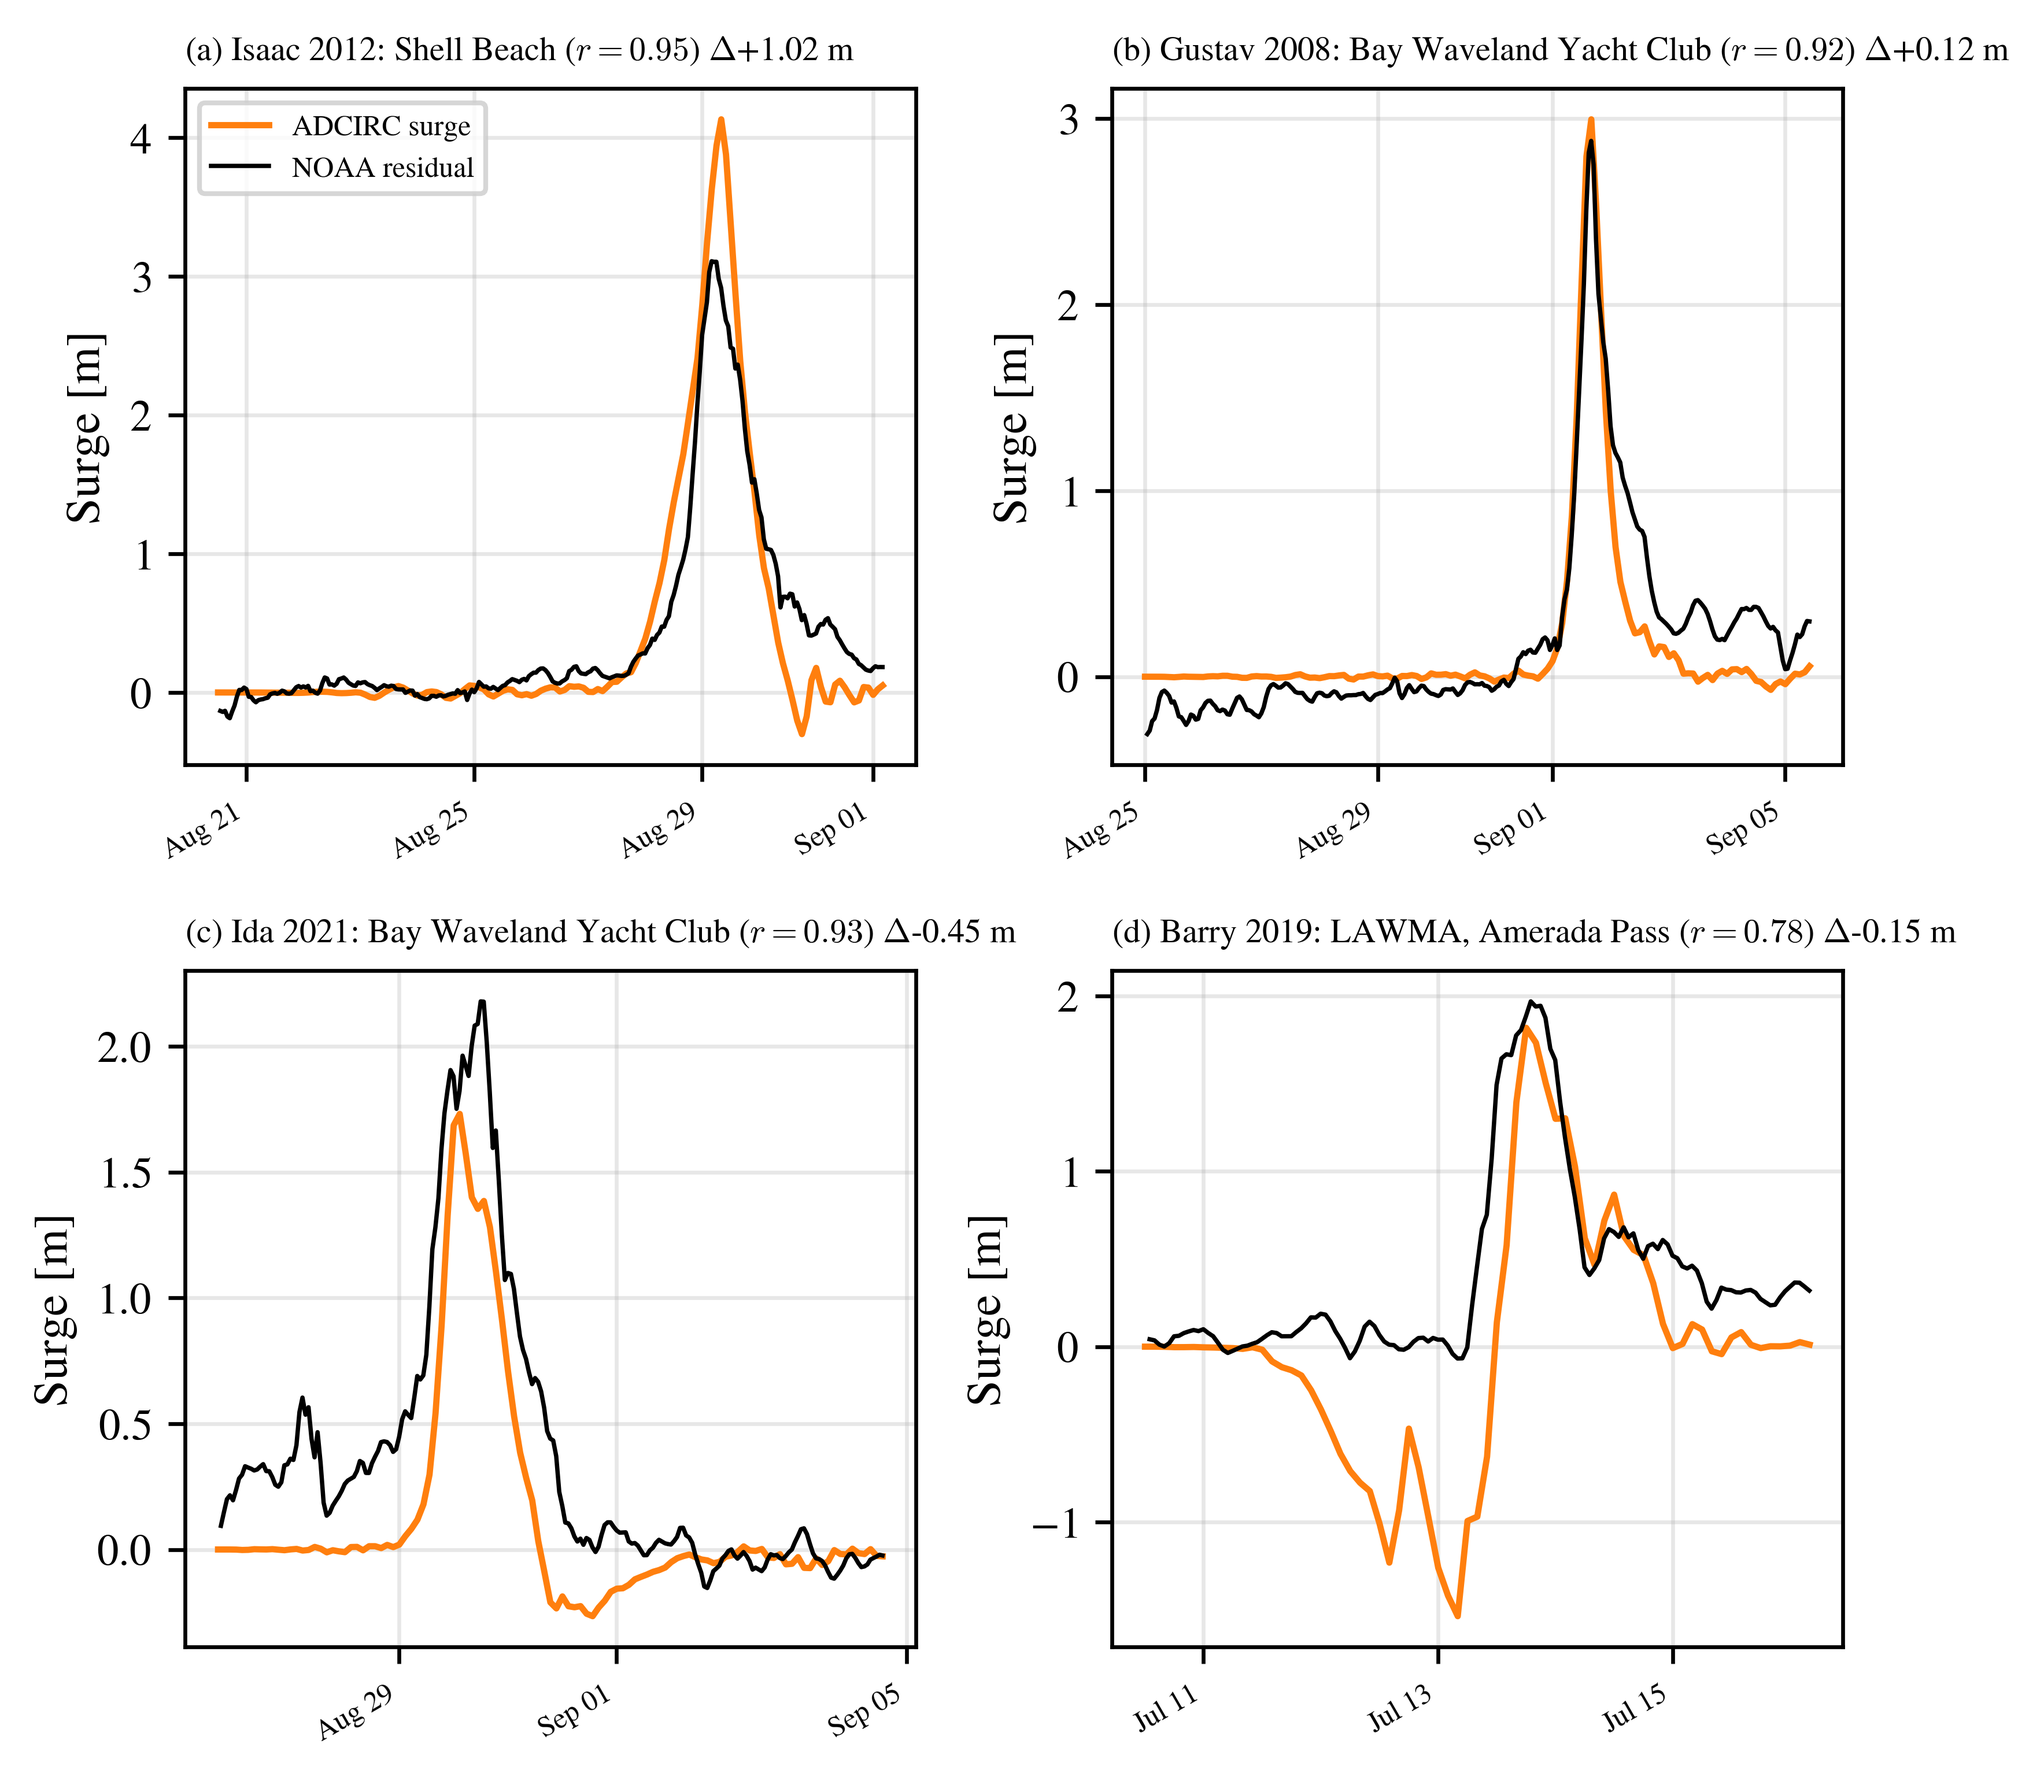
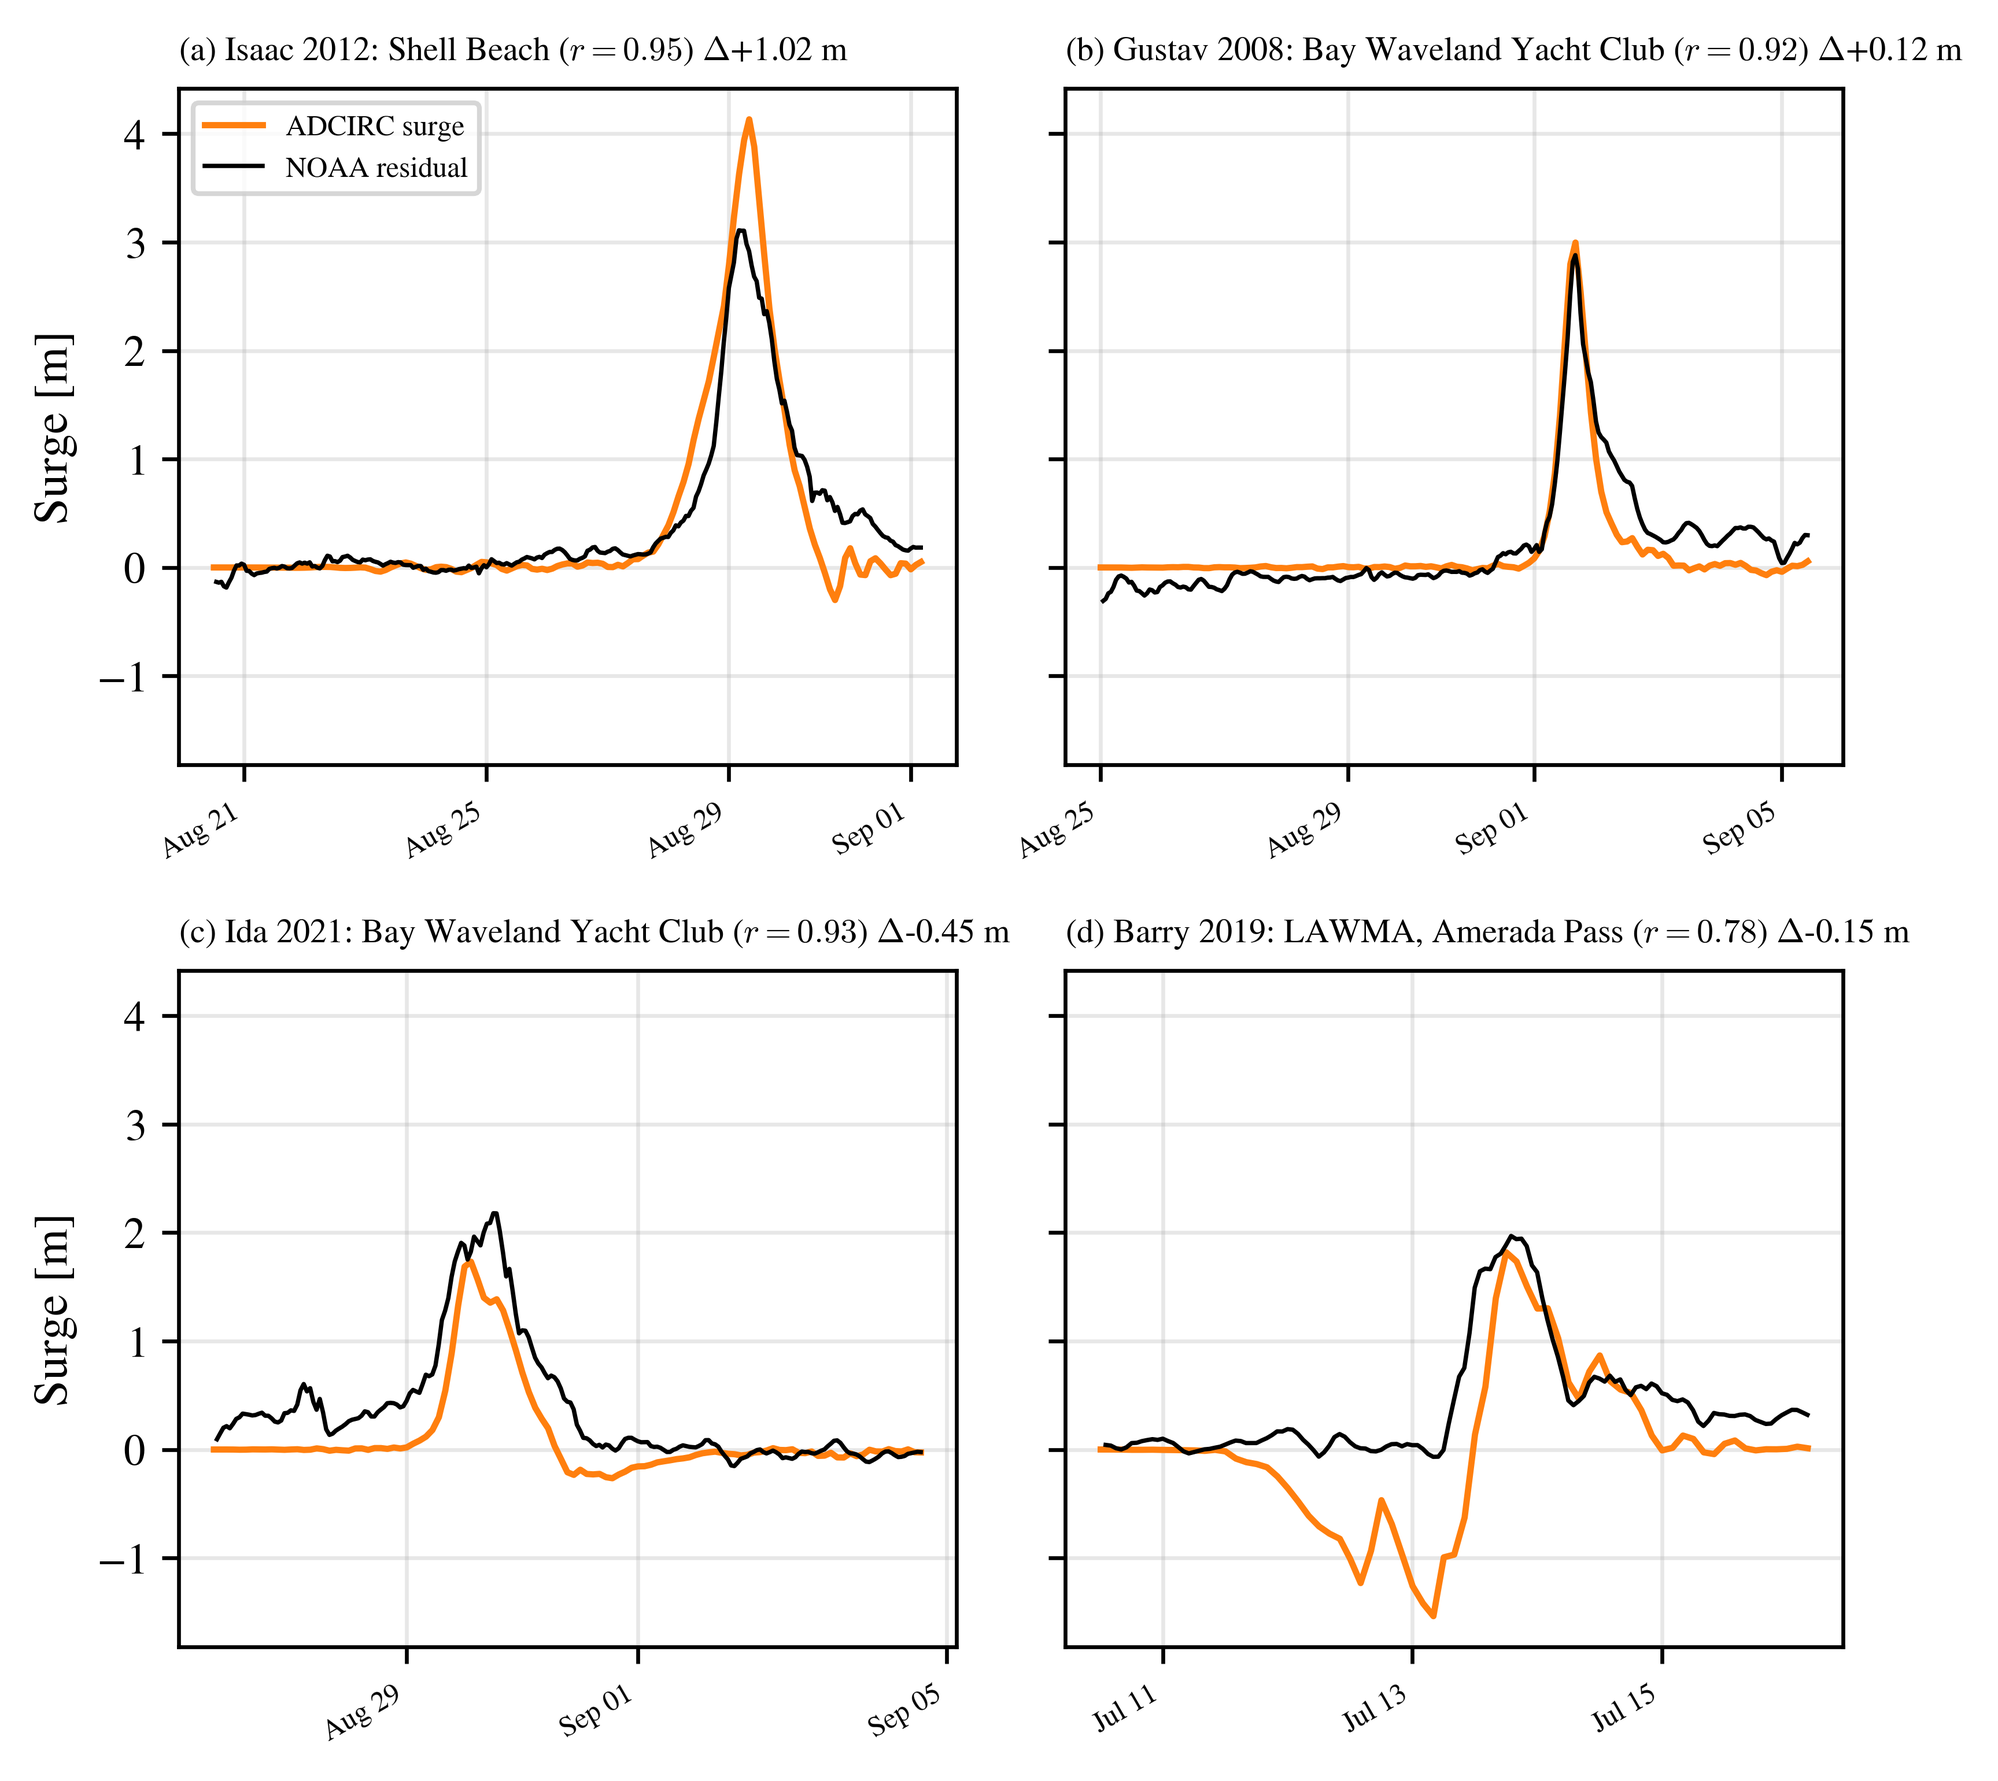
improving eval figures

diff --git a/adforce/eval/validate.py b/adforce/eval/validate.py
@@ -395,9 +395,16 @@ def _setup_plt():
 
 def _savefig(fig, paths: List[str]) -> None:
     """Save one figure to several paths (e.g. a quick-look PNG and a paper PDF).
+    Every ``.png`` quick-look also gets a vector ``.pdf`` sibling beside it in
+    the repo, in addition to any thesis-tree copy already in ``paths``.
     Figures are sized via sithom.get_dim to the LaTeX text width, so they are
     included at width=\\linewidth with no rescaling (and thus no font-size drift)."""
+    all_paths = []
     for p in paths:
+        all_paths.append(p)
+        if p.endswith(".png") and p[:-4] + ".pdf" not in paths:
+            all_paths.append(p[:-4] + ".pdf")
+    for p in all_paths:
         fig.savefig(p, bbox_inches="tight")
         print(f"wrote {p}")
 
@@ -456,12 +463,15 @@ def plot_examples(
     ncol: int = 2,
     refresh: bool = False,
     extra_titles: Optional[Dict[Tuple[str, str], str]] = None,
+    sharey: bool = True,
 ) -> None:
     """Plot simulated surge vs de-tided observed residual for chosen (storm, gauge).
 
     ``panels`` is a list of ``(storm, gauge_name)`` tuples. The per-storm series are
     loaded from the time-series cache (:func:`load_storm_series`), so regenerating this
     figure is instant once the cache exists; pass ``refresh=True`` to rebuild it.
+    ``sharey`` (default) puts every panel on one y scale so amplitudes compare
+    across panels; disable via ``validate.sharey=false`` for detail views.
     """
     plt = _setup_plt()
     import matplotlib.dates as mdates
@@ -470,7 +480,9 @@ def plot_examples(
     cache: Dict[str, Dict[str, tuple]] = {}
     nrow = int(np.ceil(len(panels) / ncol))
     # taller (ratio ~1) for the stacked rows; wider 2-col panels give the date axis room.
-    fig, axes = plt.subplots(nrow, ncol, figsize=get_dim(ratio=0.95), squeeze=False)
+    fig, axes = plt.subplots(
+        nrow, ncol, figsize=get_dim(ratio=0.95), squeeze=False, sharey=sharey
+    )
     extra_titles = extra_titles or {}
     for i, (ax, (storm, gname)) in enumerate(zip(axes.ravel(), panels)):
         letter = f"({chr(97 + i)}) "  # panel id in the (left) title -> no label clash
@@ -495,7 +507,8 @@ def plot_examples(
         rtxt += extra_titles.get((storm, gname), "")
         gauge = match[0][:24].rstrip(", ")  # trim long names without a dangling comma
         ax.set_title(f"{letter}{storm}: {gauge}{rtxt}", fontsize=7, loc="left")
-        ax.set_ylabel("Surge [m]")
+        if not sharey or i % ncol == 0:  # shared scale: label the left column only
+            ax.set_ylabel("Surge [m]")
         ax.grid(alpha=0.3)
         # few, short date ticks ("Aug 24") instead of ~10 crowded "2005-08-24" labels
         ax.xaxis.set_major_locator(mdates.AutoDateLocator(minticks=3, maxticks=5))
@@ -1197,6 +1210,7 @@ def main(cfg: DictConfig) -> None:
                 os.path.join(C.PAPER_IMG_PATH, "comp_val_examples.pdf"),
             ],
             refresh=v.refresh,
+            sharey=v.sharey,
         )
         return
     run(list(cfg.storms) if cfg.storms else None)

diff --git a/tests/test_eval.py b/tests/test_eval.py
@@ -282,7 +282,7 @@ def test_regression_headline_numbers():
     # (regional bias -0.36 m), moving the pooled numbers from
     # bias -0.20 -> -0.22, r 0.885 -> 0.87.
     bias, rmse, r = metrics(clean)
-    assert len(clean) == 146
+    assert len(clean) == 147  # 146 + Katrina/Virginia Key (coast-to-coast Katrina, 2026-08)
     assert bias == pytest.approx(-0.22, abs=0.02)
     assert rmse == pytest.approx(0.50, abs=0.02)
     assert r == pytest.approx(0.871, abs=0.01)
@@ -301,7 +301,7 @@ def test_regression_per_storm_counts():
     # (regenerated 2026-07-05 with the fixed utide de-tiding)
     assert counts["Delta 2020"] == 21
     assert counts["Nicholas 2021"] == 10
-    assert counts["Katrina 2005"] == 4
+    assert counts["Katrina 2005"] == 5  # + Virginia Key (coast-to-coast Katrina)
 
 
 # --------------------------------------------------------------------------- #
@@ -474,13 +474,13 @@ def test_regression_population_and_methods():
     df["sid"] = df["sid"].astype(str)
     # 2026-07-26 three-city extension: 432 Gulf pairs (unchanged) + 35
     # Florida pairs over the 5 added storms
-    assert len(df) == 467
+    assert len(df) == 473  # 467 + 6 Katrina Florida-panel gauges
     assert df.storm.nunique() == 19
-    assert df.valid.sum() == 302
-    assert df.clean.sum() == 146
+    assert df.valid.sum() == 304  # +2 Katrina FL pairs (Virginia Key clean, one timing-missed)
+    assert df.clean.sum() == 147
     assert df.failed.sum() == 2
     methods = dict(df.method.value_counts())
-    assert methods.get("utide") == 445 and methods.get("pred") == 22
+    assert methods.get("utide") == 451 and methods.get("pred") == 22  # +6 Katrina FL gauges
 
 
 # --------------------------------------------------------------------------- #
@@ -1198,11 +1198,19 @@ def test_resolution_bias_reproduces_published():
     new_rt = pd.read_csv(buf)
     old = pd.read_csv(_RERUN_RB)
     assert list(new_rt.columns) == list(old.columns)
-    assert new_rt.shape == old.shape
-    np.testing.assert_allclose(
-        new_rt.select_dtypes("number").fillna(-999).values,
-        old.select_dtypes("number").fillna(-999).values,
-    )
+    # Katrina joined BOTH_BOX_STORMS after the artifact was published: the
+    # committed rows must survive byte-for-byte as a subset; the only
+    # additions allowed are Katrina Florida-panel gauges.
+    new_rt["sid"] = new_rt.sid.astype(str)
+    old["sid"] = old.sid.astype(str)
+    m = old.merge(new_rt, on=["storm", "sid"], suffixes=("_o", "_n"))
+    assert len(m) == len(old)
+    for col in old.select_dtypes("number").columns:
+        np.testing.assert_allclose(
+            m[f"{col}_n"].fillna(-999), m[f"{col}_o"].fillna(-999)
+        )
+    extra = new_rt.merge(old[["storm", "sid"]], on=["storm", "sid"], how="left", indicator=True)
+    assert set(extra[extra._merge == "left_only"].storm) <= {"Katrina 2005"}
 
 
 @pytest.mark.skipif(
